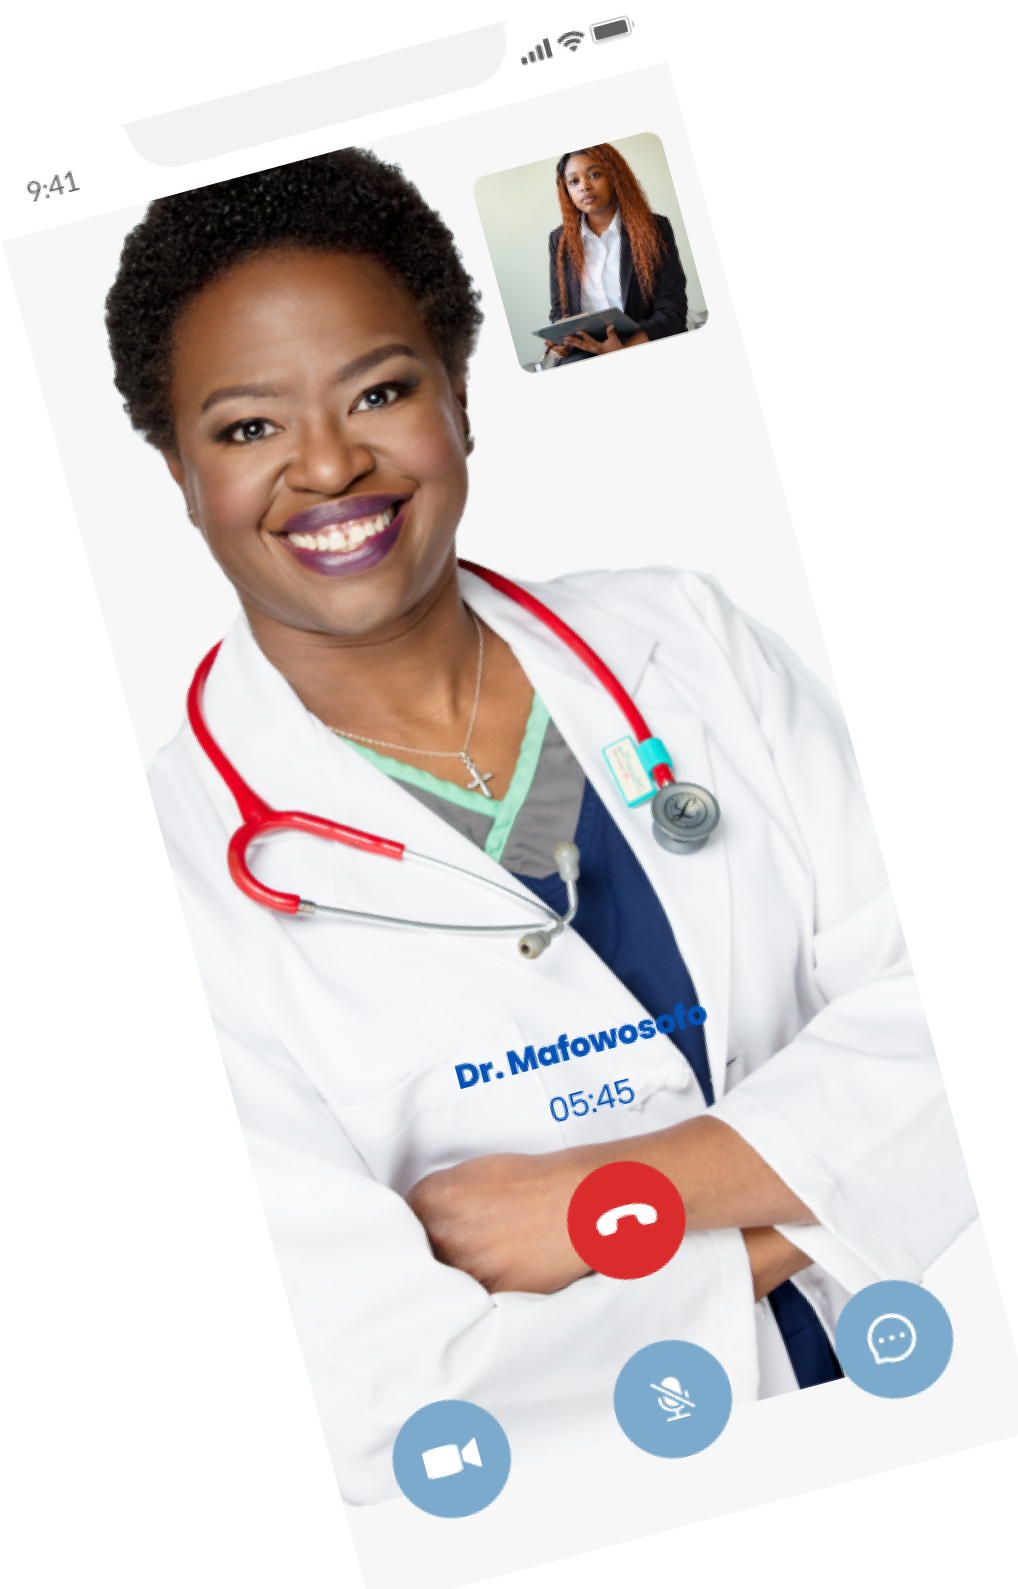
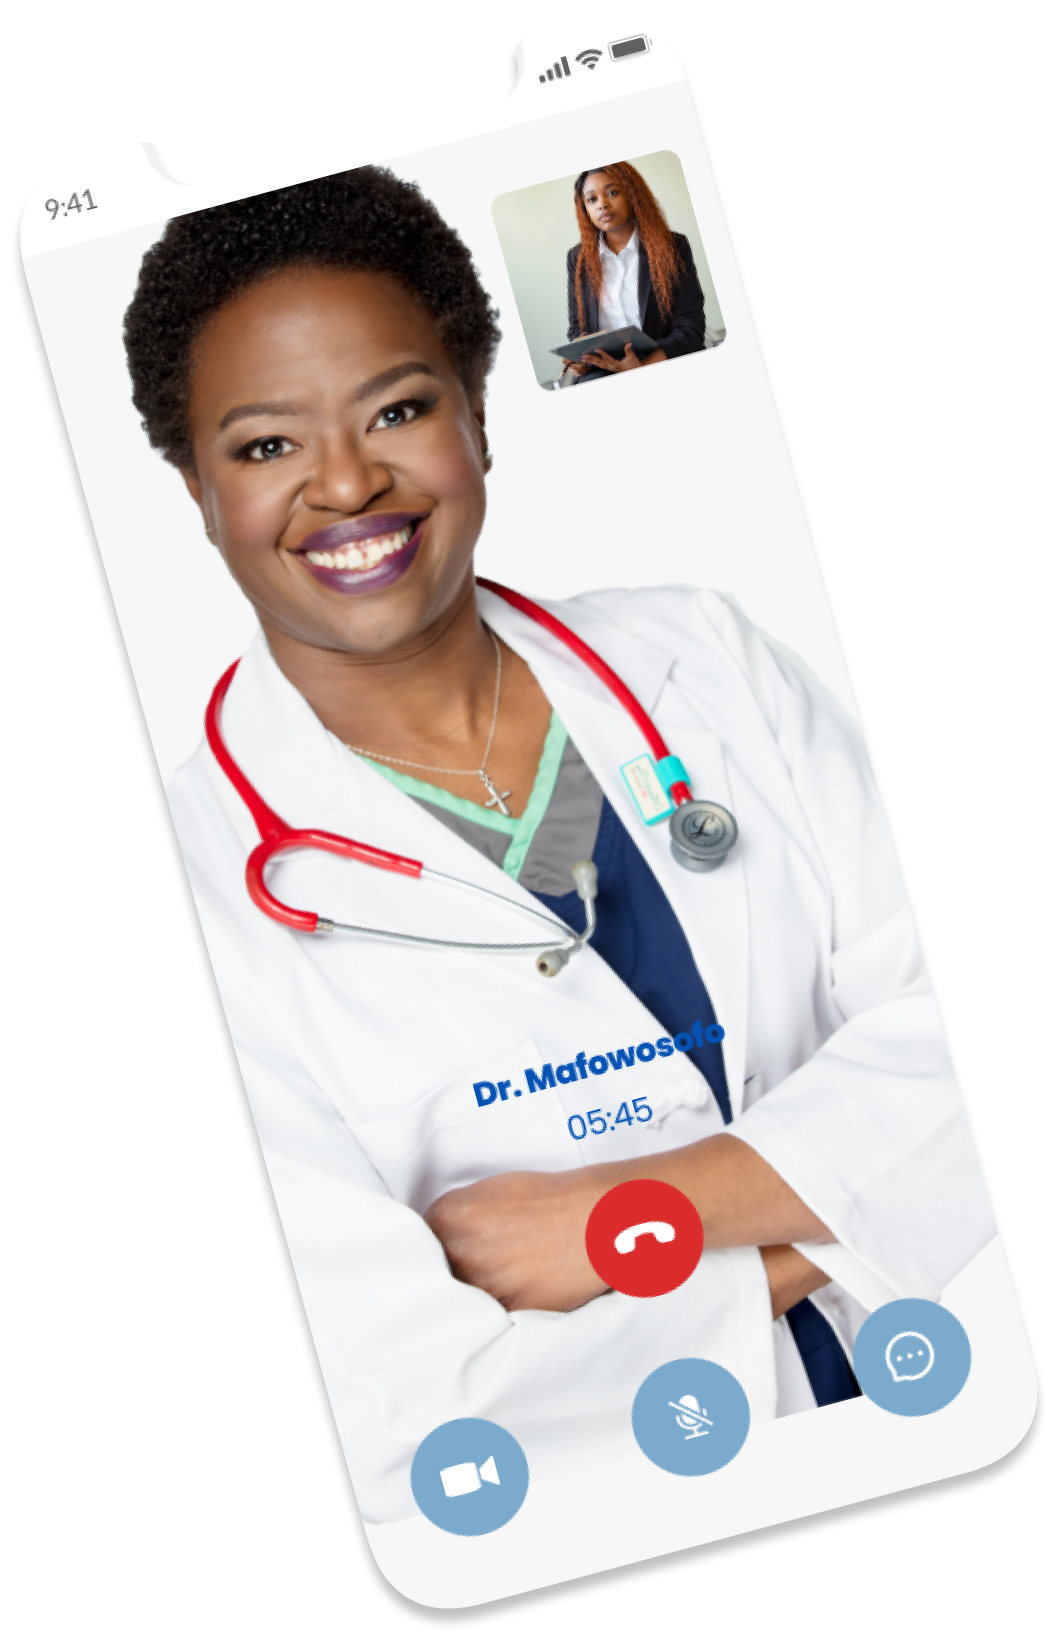
Why Page

diff --git a/src/css/style.css b/src/css/style.css
@@ -77,5 +77,39 @@
   width: 190px;
   height: 50px;
 }
+.intoImagesContainer {
+  position: relative;
+  left: 30px;
+}
+.intoImagesContainer img {
+  width: 230px;
+  height: 500px;
+}
+.intoImagesContainer .callDoctor {
+  position: absolute;
+  top: 120px;
+  left: 5px;
+  filter: drop-shadow(0px 4px 4px rgba(0, 0, 0, 0.25));
+  transform: rotate(-13.13deg);
+  z-index: 15;
+}
+.intoImagesContainer .doctors {
+  position: absolute;
+  top: 53px;
+  left: 158px;
+  z-index: 10;
+}
 
+.intoImagesContainer .profile {
+  position: absolute;
+  right: 72px;
+  top: 115.22px;
+  filter: drop-shadow(0px 4px 4px rgba(0, 0, 0, 0.25));
+  transform: rotate(9.85deg);
+  z-index: 15;
+}
 
+/* Why Section */
+.why {
+  height: 755px;
+}

diff --git a/src/sections/why/Why.js b/src/sections/why/Why.js
@@ -1,0 +1,22 @@
+import React from 'react';
+import whyCall from '../../images/why_call.png';
+import docProfile from '../../images/doc_profile.png';
+
+const Why = () => {
+    return (
+        <section className='container-fluid why'>
+            <div className='container whyContainer'>
+            <div className="row">
+                <div className="col-md-6 whyImagesContainer">
+
+                </div>
+                <div className="col-md-6 whyContainer">
+
+                </div>
+            </div>
+            </div>
+        </section>
+    )
+}
+
+export default Why

diff --git a/src/components/Navbar/NavBar.js b/src/components/Navbar/NavBar.js
@@ -1,9 +1,10 @@
 import React from 'react'
-import { Navbar, Container, Nav,  Offcanvas } from 'react-bootstrap';
+import { Navbar, Container, Nav, Offcanvas } from 'react-bootstrap';
 
 const NavBar = () => {
     return (
-        <Navbar  expand='lg' className="navBar sticky-top"  sticky="top">
+
+        <Navbar expand='lg' className="navBar sticky-top" sticky="top">
             <Container>
                 <Navbar.Brand href="#" className='navbarBrand'>Vaccine App</Navbar.Brand>
                 <Navbar.Toggle aria-controls={`offcanvasNavbar-expand-lg`} />

diff --git a/src/sections/intro/Intro.js b/src/sections/intro/Intro.js
@@ -24,7 +24,10 @@ const Intro = () => {
               </button>
             </div>
           </div>
-          <div className='col-md-6 images'>
+          <div className='col-md-6 intoImagesContainer'>
+            <img src={callDoctor} alt='Call a doctor' className='callDoctor'/>
+            <img src={doctors} alt='doctors' className='doctors'/>
+            <img src={profile} alt='Profile' className='profile'/>
           </div>
         </div>
       </div>

diff --git a/src/App.js b/src/App.js
@@ -1,14 +1,16 @@
 import React from 'react';
 import 'bootstrap/dist/css/bootstrap.min.css';
 import './css/style.css'
-import {Intro} from './sections/intro';
 import {Navbar} from './components/Navbar';
+import {Intro} from './sections/intro';
+import {Why} from './sections/why';
 
 const App = () => {
   return (
     <div className='higher_order-container'>
         <Navbar />
         <Intro />
+        <Why />
     </div>
   )
 }

diff --git a/src/sections/why/index.js b/src/sections/why/index.js
@@ -1,0 +1,1 @@
+export {default as Why} from './Why'
